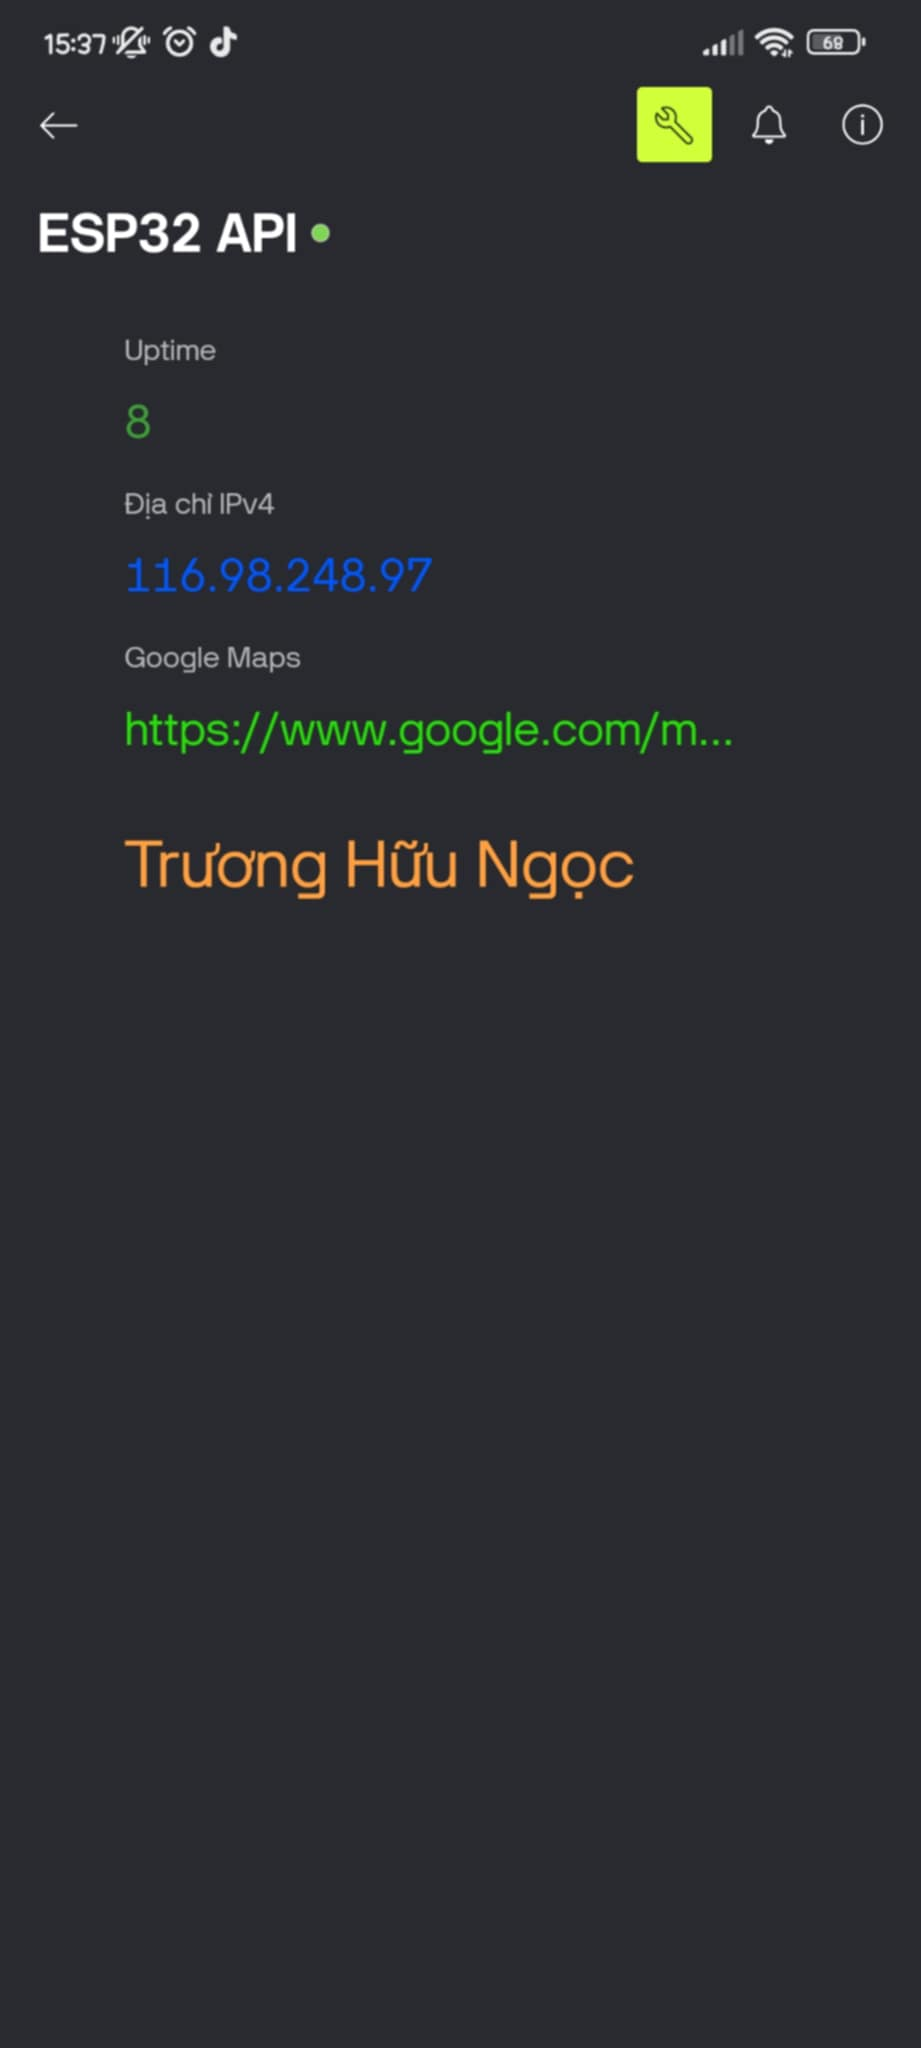
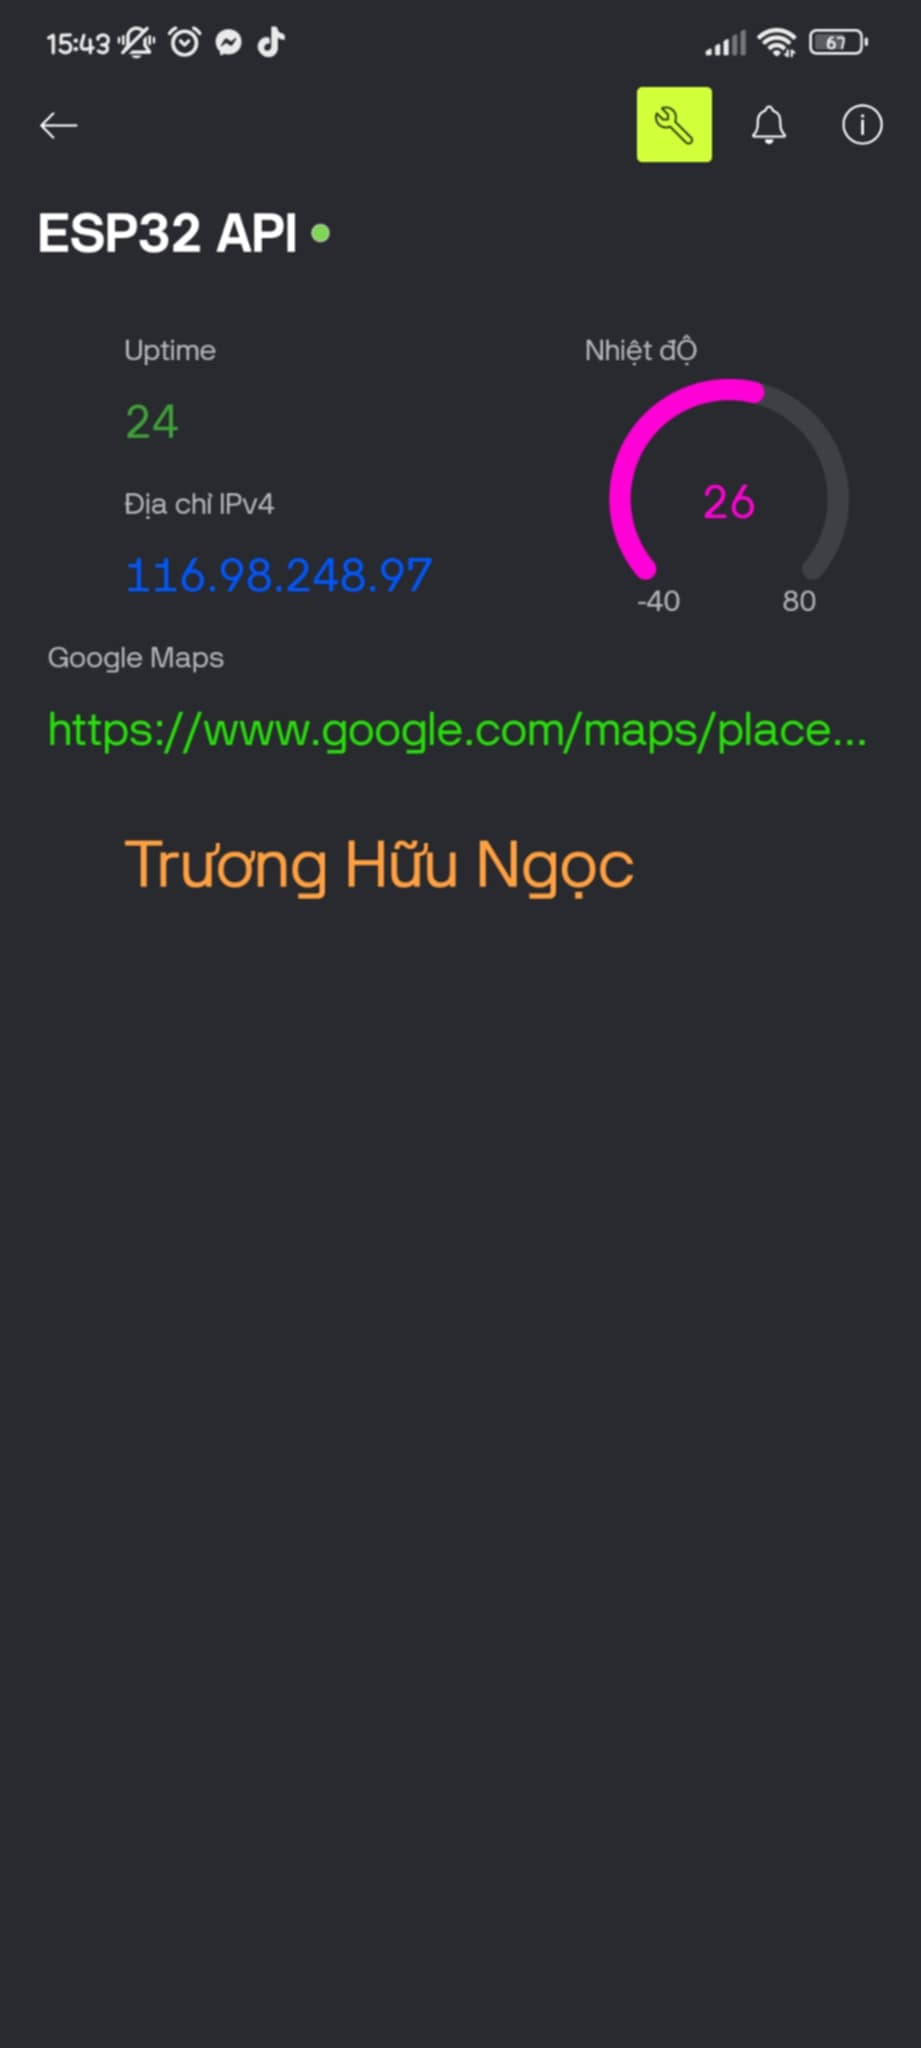
Blynk API v2.1

diff --git a/TEAM_08/TruongHuuNgoc/Blynk API/src/main.cpp b/TEAM_08/TruongHuuNgoc/Blynk API/src/main.cpp
@@ -88,8 +88,8 @@ void parseGeoInfo(String payload, IP4_Info &ipInfo)
 }
 
 // Key lấy từ openweathermap.org khi đăng ký tài khoản
-#define OPENWEATHERMAP_KEY "xxxx" // Thay KEY của bạn vào đây
-String urlWeather;                // Biến lưu url https://openweathermap.org/
+#define OPENWEATHERMAP_KEY "xxx" // Thay KEY của bạn vào đây
+String urlWeather;               // Biến lưu url https://openweathermap.org/
 
 // API Get http://ip4.iothings.vn/?geo=1
 void getAPI()
